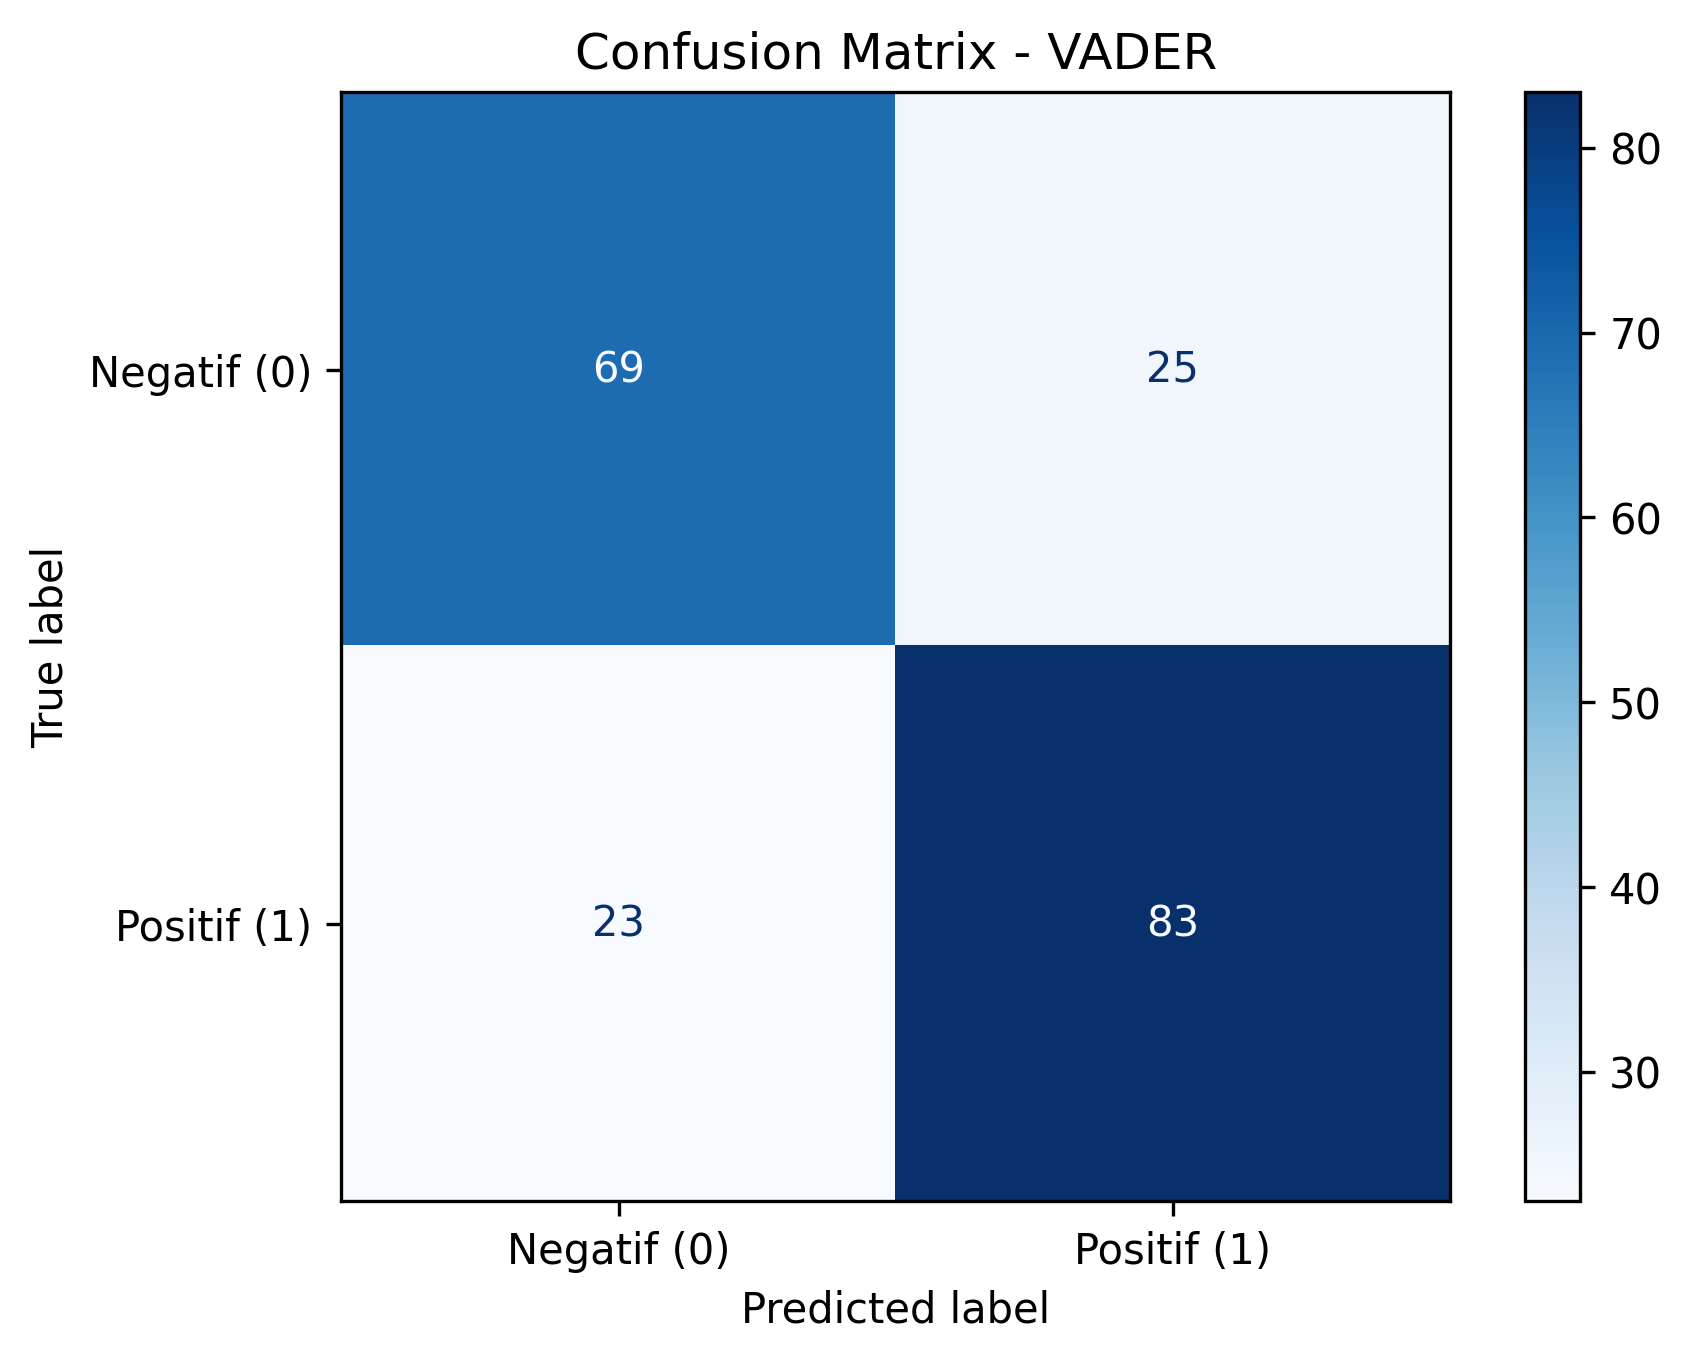
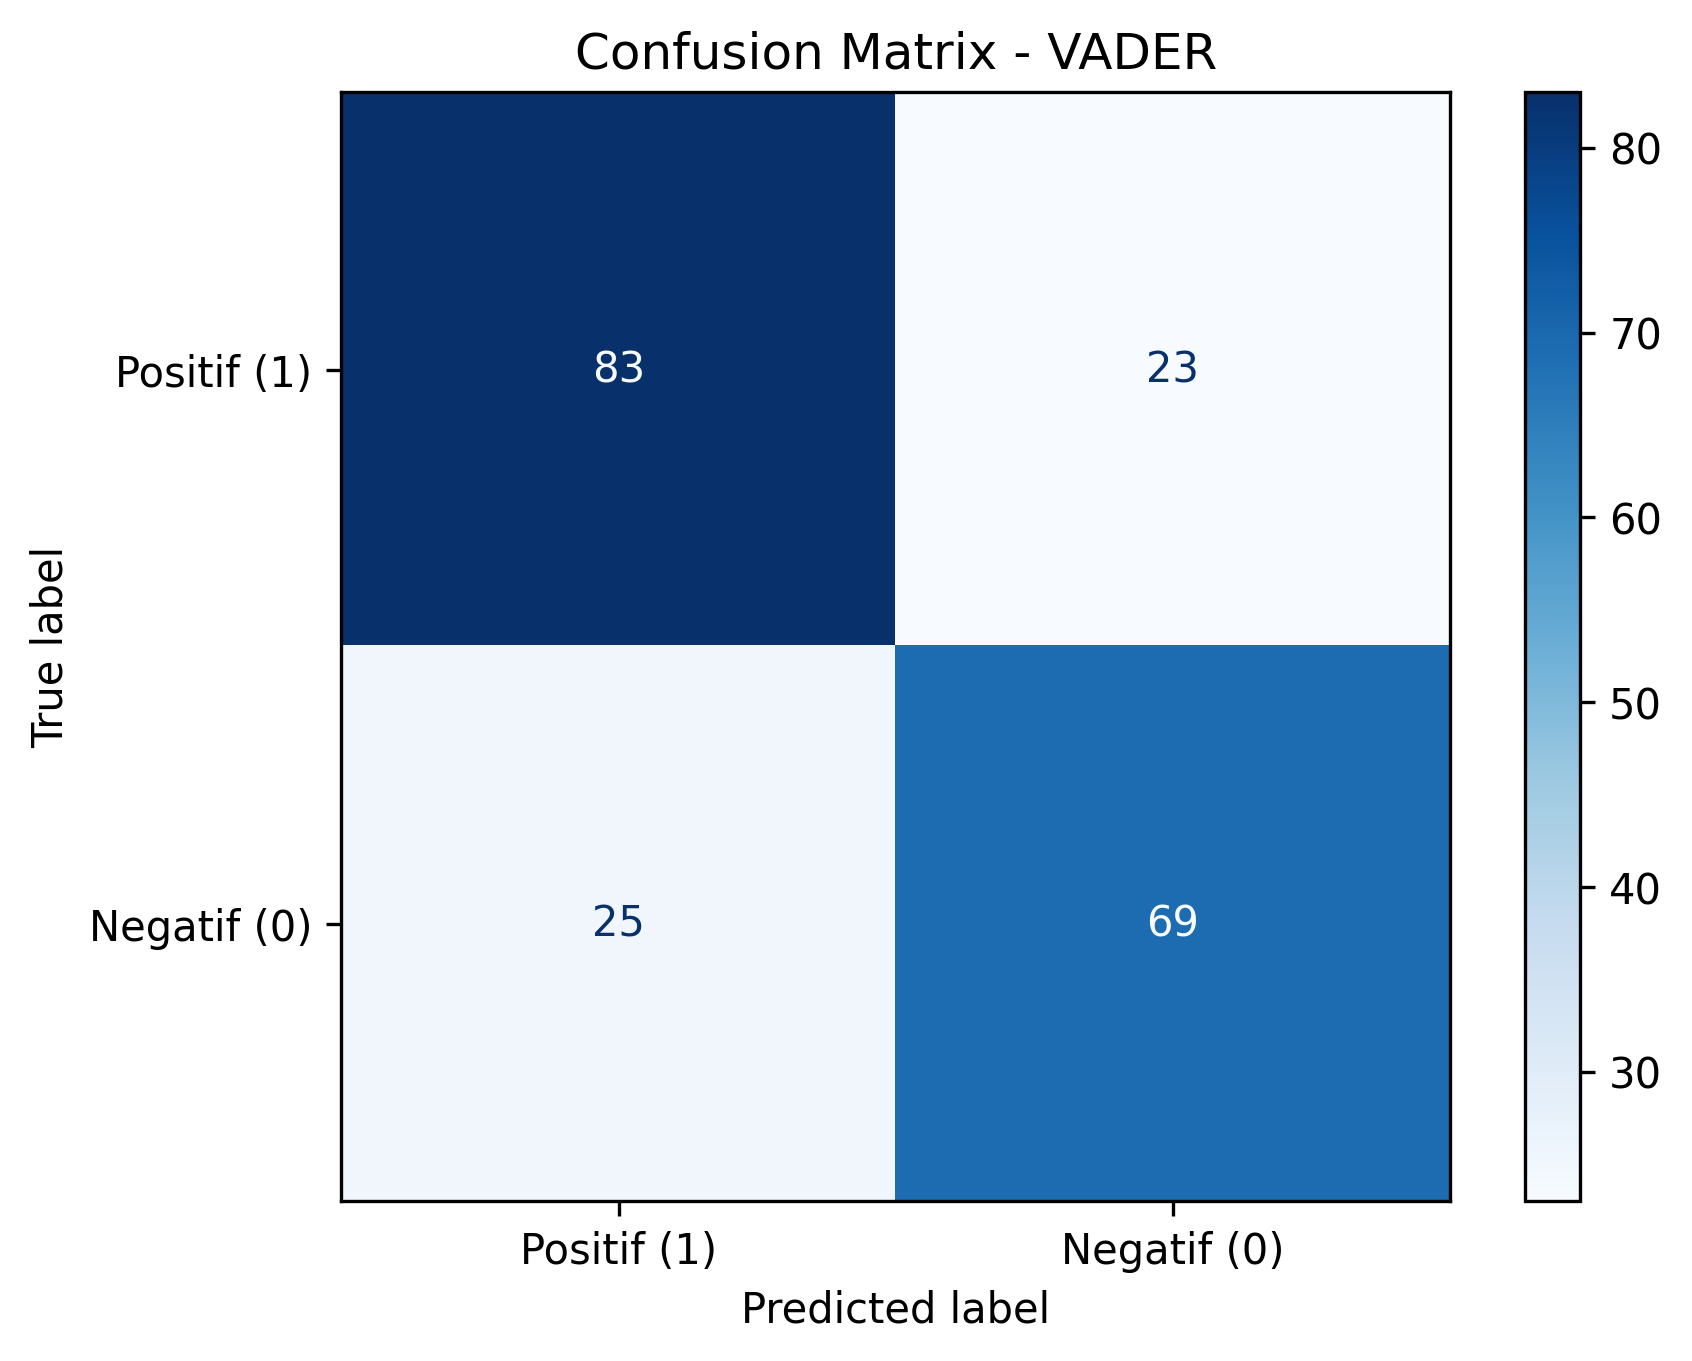
Fix confusion matrix layout so Positif is top-left

diff --git a/generate_fixed_cm.py b/generate_fixed_cm.py
@@ -1,0 +1,29 @@
+import numpy as np
+import matplotlib.pyplot as plt
+from sklearn.metrics import ConfusionMatrixDisplay
+
+# IndoBERT values
+# Top-Left (TP) = 93, Top-Right (FN) = 7
+# Bottom-Left (FP) = 5, Bottom-Right (TN) = 95
+cm_indobert = np.array([[93, 7],
+                        [5, 95]])
+
+disp1 = ConfusionMatrixDisplay(confusion_matrix=cm_indobert, display_labels=['Positif (1)', 'Negatif (0)'])
+disp1.plot(cmap='Greens', values_format='d')
+plt.title('Confusion Matrix - Evaluasi IndoBERT')
+plt.savefig('confusion_matrix_indobert.png', dpi=300, bbox_inches='tight')
+plt.close()
+
+# VADER values
+# Top-Left (TP) = 83, Top-Right (FN) = 23
+# Bottom-Left (FP) = 25, Bottom-Right (TN) = 69
+cm_vader = np.array([[83, 23],
+                     [25, 69]])
+
+disp2 = ConfusionMatrixDisplay(confusion_matrix=cm_vader, display_labels=['Positif (1)', 'Negatif (0)'])
+disp2.plot(cmap='Blues', values_format='d')
+plt.title('Confusion Matrix - VADER')
+plt.savefig('confusion_matrix_vader.png', dpi=300, bbox_inches='tight')
+plt.close()
+
+print("Images regenerated successfully!")

diff --git a/latih_indobert_vader.py b/latih_indobert_vader.py
@@ -27,10 +27,13 @@ def evaluasi_model(nama_model, y_test, y_pred):
     print(f"F1-Score      : {f1 * 100:.2f}%")
     print(f"Cohen's Kappa : {kappa:.4f}")
     
-    # Bikin gambar Confusion Matrix
-    cm = confusion_matrix(y_test, y_pred)
-    disp = ConfusionMatrixDisplay(confusion_matrix=cm, display_labels=['Negatif (0)', 'Positif (1)'])
-    disp.plot(cmap='Blues', values_format='d')
+    # Bikin gambar Confusion Matrix dengan urutan Positif(1) di atas/kiri dan Negatif(0) di bawah/kanan
+    cm = confusion_matrix(y_test, y_pred, labels=[1, 0])
+    disp = ConfusionMatrixDisplay(confusion_matrix=cm, display_labels=['Positif (1)', 'Negatif (0)'])
+    if nama_model == "IndoBERT":
+        disp.plot(cmap='Greens', values_format='d')
+    else:
+        disp.plot(cmap='Blues', values_format='d')
     plt.title(f'Confusion Matrix - {nama_model}')
     
     # Simpan gambar kualitas HD (dpi=300)